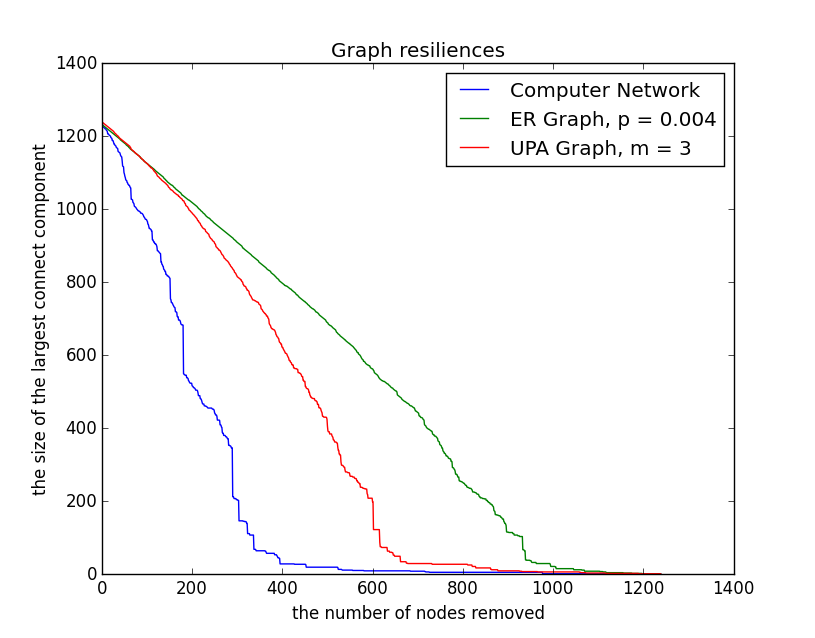
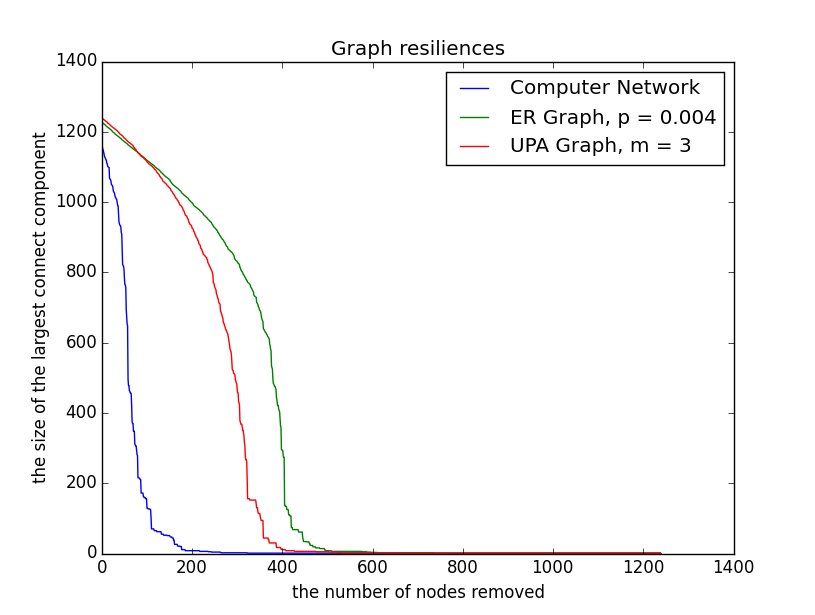
update graph for application 2-4

diff --git a/Module2/code/application.py b/Module2/code/application.py
@@ -201,9 +201,10 @@ def question4_plot():
     m = 3
     er_graph = er(n, p)
     upa_graph = upa(n, m)
-
+    # get_order = fast_targeted_order
+    get_order = targeted_order
     graphs = [network_graph, er_graph, upa_graph]
-    attack_orders = [fast_targeted_order(graph) for graph in graphs]
+    attack_orders = [get_order(graph) for graph in graphs]
 
     resiliences = [compute_resilience(graph, attack_order) for
                    graph, attack_order in zip(graphs, attack_orders)]
